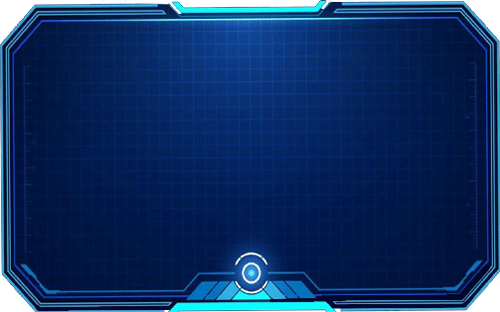
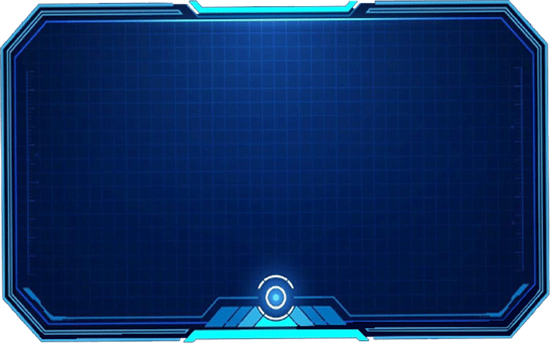
Changed size of panels, changed Tilesize.

Changed region(s): [[0.0, 0.0, 1.0, 1.0]]

diff --git a/src/cyberzul/view/board/CenterBoard.java b/src/cyberzul/view/board/CenterBoard.java
@@ -58,6 +58,8 @@ public class CenterBoard extends JPanel {
     setProperties();
 
     boardAndPlatesAndTablePanel = new JPanel(new BorderLayout());
+    boardAndPlatesAndTablePanel.setMinimumSize(panelDimension);
+    boardAndPlatesAndTablePanel.setMaximumSize(panelDimension);
     boardAndPlatesAndTablePanel.setOpaque(false);
     setPlatesAndTableCenterPanel();
     createNewPlatesPanel();
@@ -134,17 +136,15 @@ public class CenterBoard extends JPanel {
    * Dimensions of the GameBoard.
    */
   private void computePanelSizes() {
-    System.out.println(panelDimension.height);
     panelDimension =
-        new Dimension((int) (panelDimension.width * 0.45), (int) (panelDimension.height * 0.94));
+        new Dimension((int) (panelDimension.width * 0.45), (int) (panelDimension.height));
     topPanelDimension =
-        new Dimension((int) (panelDimension.width), (int) (panelDimension.height * 0.45));
+        new Dimension((int) (panelDimension.width), (int) (panelDimension.height * 0.38));
     bottomPanelDimension =
-        new Dimension((int) (panelDimension.width), (int) (panelDimension.height * 0.55));
+        new Dimension((int) (panelDimension.width), (int) (panelDimension.height * 0.45));
   }
 
   private void setProperties() {
-    // setLayout(new BoxLayout(this,BoxLayout.Y_AXIS));
     setMinimumSize(panelDimension);
     setMaximumSize(panelDimension);
     setOpaque(false);
@@ -189,7 +189,6 @@ public class CenterBoard extends JPanel {
    */
   void createNewTableCenter() {
     tableCenterPanel = new TableCenterPanel(controller, tileClickListener, topPanelDimension);
-    // platesPanel.setPreferredSize(new Dimension(1100, 10));
     platesAndTableCenterPanel.add(tableCenterPanel, BorderLayout.EAST);
   }
 

diff --git a/src/cyberzul/view/board/ActivePlayerBoard.java b/src/cyberzul/view/board/ActivePlayerBoard.java
@@ -2,14 +2,14 @@ package cyberzul.view.board;
 
 import cyberzul.controller.Controller;
 import cyberzul.view.listeners.TileClickListener;
-import java.awt.Dimension;
-import java.awt.Graphics;
-import java.awt.Image;
+
+import javax.imageio.ImageIO;
+import javax.swing.*;
+import java.awt.*;
 import java.awt.image.BufferedImage;
 import java.io.IOException;
 import java.net.URL;
 import java.util.Objects;
-import javax.imageio.ImageIO;
 
 /**
  * The PlayerBoard of the active player (at the lower center of the Gameboard).
@@ -36,11 +36,12 @@ public class ActivePlayerBoard extends PlayerBoard {
 
     setMaximumSize(panelDimension);
     setMinimumSize(panelDimension);
+    add(Box.createVerticalStrut(500));
 
     try {
       URL imgUrl = getClass().getClassLoader().getResource("img/hud.png");
       image = ImageIO.read(Objects.requireNonNull(imgUrl));
-      image.getScaledInstance(panelDimension.width, panelDimension.height, Image.SCALE_DEFAULT);
+      image.getScaledInstance(panelDimension.width + 200, panelDimension.height + 200, Image.SCALE_DEFAULT);
     } catch (IOException e) {
       throw new RuntimeException(e);
     }
@@ -49,6 +50,6 @@ public class ActivePlayerBoard extends PlayerBoard {
   @Override
   protected void paintComponent(Graphics g) {
     super.paintComponent(g);
-    g.drawImage(image, 0, 0, null);
+    g.drawImage(image, 80, 100, null);
   }
 }

diff --git a/src/cyberzul/view/board/TableCenterPanel.java b/src/cyberzul/view/board/TableCenterPanel.java
@@ -5,16 +5,13 @@ import cyberzul.model.ModelTile;
 import cyberzul.model.TableCenter;
 import cyberzul.view.listeners.TileClickListener;
 import edu.umd.cs.findbugs.annotations.SuppressFBWarnings;
-import java.awt.Dimension;
-import java.awt.Graphics2D;
-import java.awt.RenderingHints;
+
+import javax.swing.*;
+import java.awt.*;
 import java.awt.image.BufferedImage;
 import java.net.URL;
 import java.util.ArrayList;
 import java.util.List;
-import javax.swing.ImageIcon;
-import javax.swing.JLabel;
-import javax.swing.JPanel;
 
 /**
  * The tiles on the center of the table ("Tischmitte") (Center Board class).
@@ -67,7 +64,7 @@ public class TableCenterPanel extends JPanel {
    */
   private void setTableCenterPanelSize() {
     panelDimension =
-        new Dimension((int) (panelDimension.getWidth() * 0.4), (int) (panelDimension.getHeight()));
+        new Dimension((int) (panelDimension.getWidth() * 0.45), (int) (panelDimension.getHeight()));
     setMinimumSize(panelDimension);
     setMaximumSize(panelDimension);
   }

diff --git a/src/cyberzul/view/board/Plate.java b/src/cyberzul/view/board/Plate.java
@@ -2,14 +2,12 @@ package cyberzul.view.board;
 
 import cyberzul.model.ModelTile;
 import cyberzul.view.listeners.TileClickListener;
-import java.awt.Color;
-import java.awt.Image;
+
+import javax.swing.*;
+import java.awt.*;
 import java.net.URL;
 import java.util.ArrayList;
 import java.util.List;
-import javax.swing.ImageIcon;
-import javax.swing.JLabel;
-import javax.swing.JPanel;
 
 /**
  * Represents a Factory Display on the view.
@@ -17,7 +15,7 @@ import javax.swing.JPanel;
 public class Plate extends JPanel {
 
   private static final long serialVersionUID = 7526472295622776147L;
-  private static final int PLATE_SIZE = 80;
+  private static final int PLATE_SIZE = 100;
 
   private static final int spaceFromLeftAndTopInPxl = 13;
   private static final int SPACE_BETWEEN_TILES_IN_PXL = 4;

diff --git a/src/cyberzul/view/board/Tile.java b/src/cyberzul/view/board/Tile.java
@@ -1,7 +1,7 @@
 package cyberzul.view.board;
 
+import javax.swing.*;
 import java.util.Map;
-import javax.swing.JLabel;
 
 public interface Tile {
 
@@ -21,7 +21,7 @@ public interface Tile {
           "orange tile", ORANGE_TILE_PATH,
           "starting player marker", STARTING_PLAYER_MARKER_PATH);
   int TILE_SIZE = 30;
-  int NORMAL_TILE_SIZE = 36;
+  int NORMAL_TILE_SIZE = 40;
   int SMALL_TILE_SIZE = 23;
 
   /**
